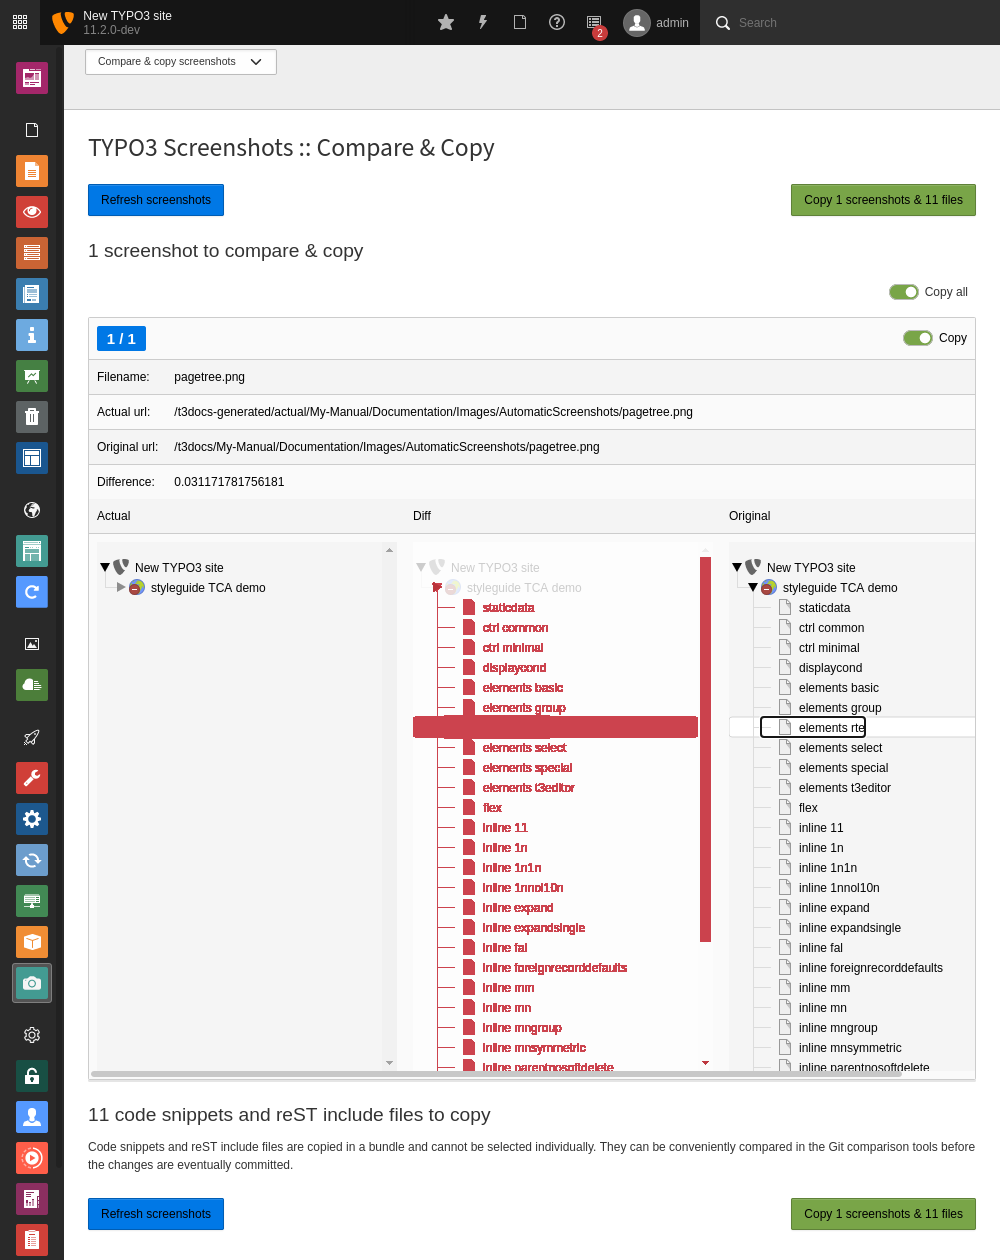
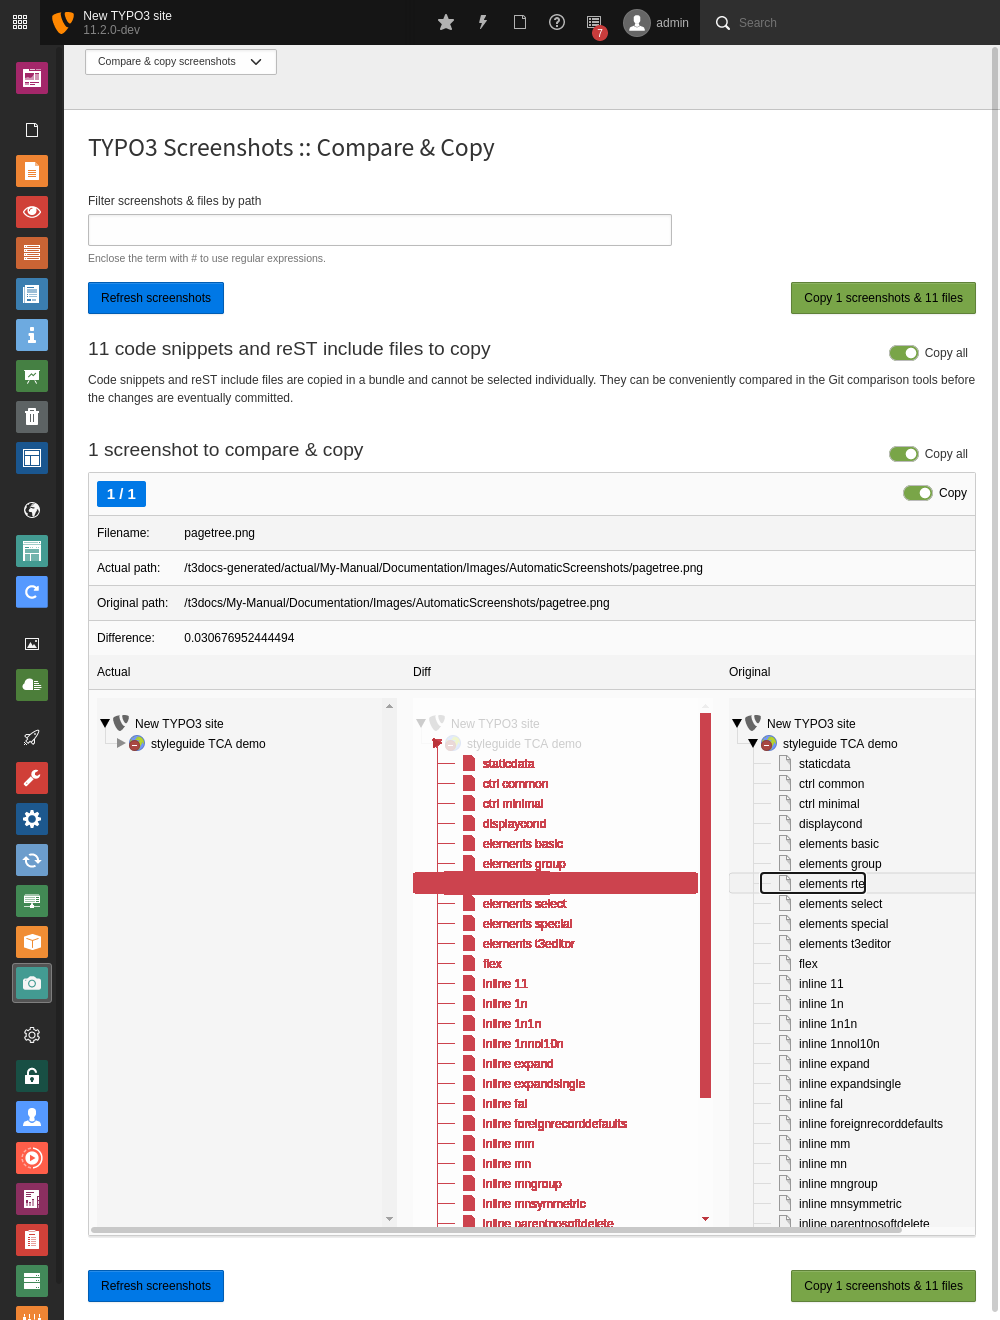
[DOCS] Document the filtering of screenshots by the searchbox

diff --git a/README.rst b/README.rst
@@ -392,10 +392,16 @@ current state on the left, the original state on the right and the difference ma
 the difference as a number.
 
 Each screenshot is selected for copying by default, but can be deselected individually and in aggregation. All text
-files such as the screenshot ReST include files or the code snippets cannot be deselected but are copied in bundles:
-They must be handled externally by the Git comparison tools.
+files such as the screenshot reST include files or the code snippets cannot be compared, but can only be selected or
+deselected for copying in bundles: They must be handled externally by the Git comparison tools.
 
 .. image:: docs/screenshots_manager_compare.png
+
+To work comfortably with a large number of files, the list of screenshots and text files can be reduced by entering
+a path in the search field at the top of the page: Only files with a matching path will then be displayed. Regular
+expressions are supported and automatic suggestion of available paths is enabled.
+
+.. image:: docs/screenshots_manager_compare_searchbox.png
 
 When you have confirmed the changes, pressing the "Copy screenshots" button will copy the screenshots to the original
 location.
